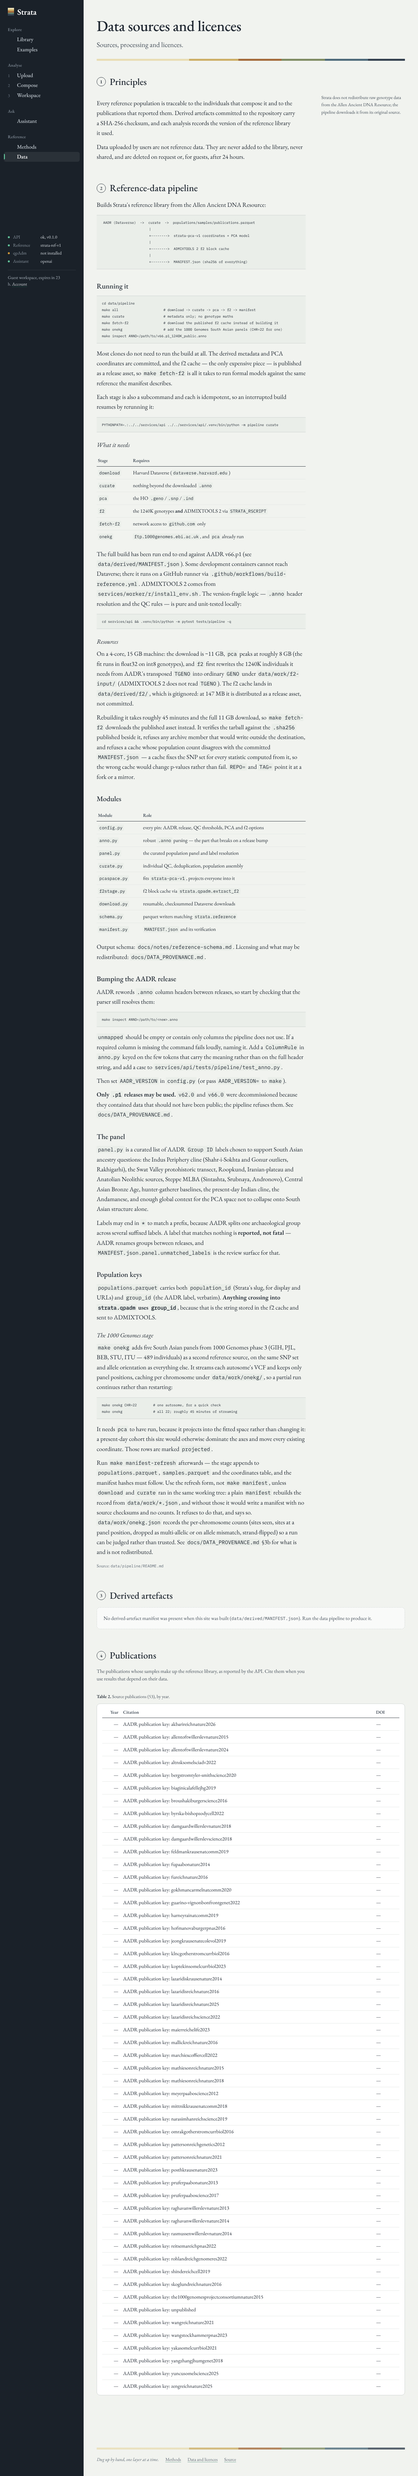
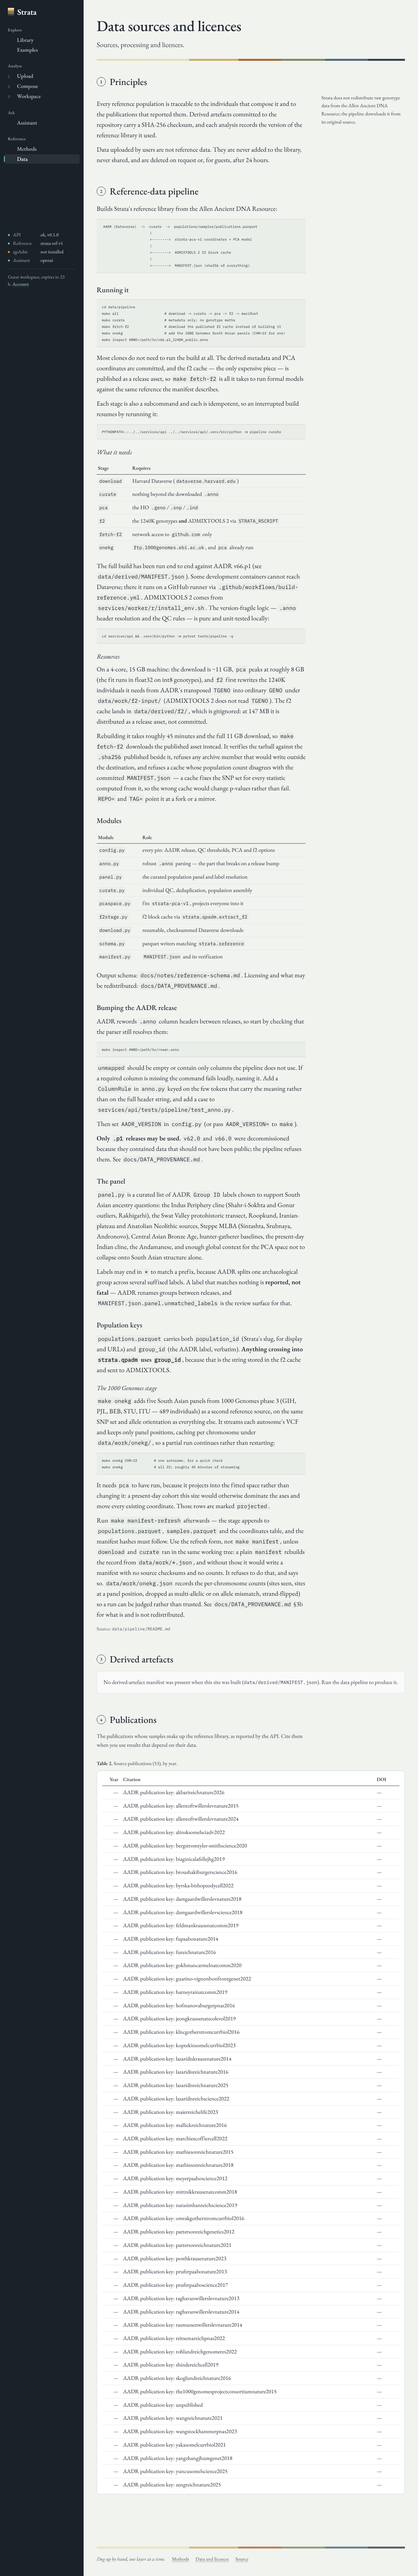
web: plain Strata title and easier-to-read text
The landing headline goes back to "Strata" with the italic subtitle
"a research instrument for population genetics", in place of the
word-by-word "Ancient DNA, read layer by layer" animation.

Body text is easier to read: larger base, small and caption sizes,
darker secondary greys, a little more line height, and no forced
antialiasing (which thinned Garamond on macOS). The rail's labels
and readouts get the same contrast bump.

Claude-Session: https://claude.ai/code/session_01HEuHS4owTqCYiz6PtRUaCN

diff --git a/apps/web/src/components/SiteHeader.tsx b/apps/web/src/components/SiteHeader.tsx
@@ -88,7 +88,7 @@ function Readout({ label, value, state }: { label: string; value: string; state:
   return (
     <div className="grid grid-cols-[0.5rem_4.75rem_1fr] items-baseline gap-x-2">
       <span className={`inline-block size-1.5 -translate-y-px rounded-full ${dot}`} aria-hidden />
-      <dt className="text-[#8d98a3]">{label}</dt>
+      <dt className="text-[#a7b1ba]">{label}</dt>
       <dd className="num truncate text-[#d5dbe0]" title={value}>
         {value}
       </dd>
@@ -101,7 +101,7 @@ function Status() {
   const caps = health?.capabilities;
   const wait = !health;
   return (
-    <dl className="space-y-1 text-[0.86rem] leading-[1.5]" aria-label="Server status">
+    <dl className="space-y-1 text-[0.92rem] leading-[1.5]" aria-label="Server status">
       <Readout label="API" value={health ? `${health.status}, v${health.version}` : "not connected"} state={wait ? "wait" : health.status === "ok" ? "ok" : "off"} />
       <Readout label="Reference" value={caps?.reference_version ?? "not built"} state={wait ? "wait" : caps?.reference_loaded ? "ok" : "off"} />
       <Readout label="qpAdm" value={caps ? (caps.qpadm ? "available" : "not installed") : "—"} state={wait ? "wait" : caps?.qpadm ? "ok" : "off"} />
@@ -119,7 +119,7 @@ function Nav({ path, onNavigate }: { path: string; onNavigate?: () => void }) {
     <nav aria-label="Primary" className="space-y-6">
       {GROUPS.map((g) => (
         <div key={g.title}>
-          <p className="mb-1.5 px-3 text-[0.82rem] font-semibold tracking-[0.02em] text-[#7f8a95]">{g.title}</p>
+          <p className="mb-1.5 px-3 text-[0.82rem] font-semibold tracking-[0.02em] text-[#9ca7b1]">{g.title}</p>
           <ul className="space-y-px">
             {g.items.map((n) => {
               const active = isActive(path, n.href);
@@ -136,7 +136,7 @@ function Nav({ path, onNavigate }: { path: string; onNavigate?: () => void }) {
                     {active ? (
                       <span className="pop absolute top-1.5 bottom-1.5 left-0 w-[3px] origin-center rounded-r bg-[#62c39a]" aria-hidden />
                     ) : null}
-                    <span className={`num text-[0.82rem] ${active ? "text-[#62c39a]" : "text-[#6f7a86]"}`}>
+                    <span className={`num text-[0.82rem] ${active ? "text-[#62c39a]" : "text-[#8994a0]"}`}>
                       {n.step ?? ""}
                     </span>
                     <span className="transition-transform duration-150 group-hover:translate-x-0.5">
@@ -212,7 +212,7 @@ export function SiteHeader() {
         <Nav path={path} onNavigate={() => setOpen(false)} />
         <div className="mt-auto space-y-4 px-3 pt-10">
           <Status />
-          <p className="border-t border-white/10 pt-3 text-[0.86rem] leading-[1.5] text-[#a9b3bc] [&_a]:text-[#d5dbe0]">
+          <p className="border-t border-white/10 pt-3 text-[0.92rem] leading-[1.5] text-[#a9b3bc] [&_a]:text-[#d5dbe0]">
             <SessionLine />
           </p>
         </div>

diff --git a/apps/web/src/app/page.tsx b/apps/web/src/app/page.tsx
@@ -1,7 +1,7 @@
 "use client";
 
 import Link from "next/link";
-import { Fragment, useMemo } from "react";
+import { useMemo } from "react";
 import { api } from "@/lib/api";
 import { useResource } from "@/lib/useResource";
 import { analysisLabel, int } from "@/lib/format";
@@ -199,17 +199,14 @@ export default function Home() {
     <article>
       <header className="mb-20 grid gap-12 lg:grid-cols-[minmax(0,1fr)_minmax(20rem,26rem)] lg:gap-14">
         <div className="flex flex-col">
-          <h1 className="display text-[2.9rem] sm:text-[3.6rem] xl:text-display">
-            {["Ancient", "DNA,", "read", "layer", "by", "layer."].map((w, i) => (
-              <Fragment key={i}>
-                <span className="settle" style={{ animationDelay: `${120 + i * 90}ms` }}>
-                  {w}
-                </span>{" "}
-              </Fragment>
-            ))}
-          </h1>
-          <p className="serif measure mt-7 text-[1.4rem] leading-[1.55] text-ink-2">
-            Compare your DNA with thousands of ancient people, then test which ancestry stories the data really supports.
+          <h1 className="display text-[3.6rem] leading-none sm:text-[4.6rem] xl:text-[5.4rem]">Strata</h1>
+          <p className="serif mt-3 text-[1.55rem] leading-snug text-ink-2 italic sm:text-[1.8rem]">
+            a research instrument for population genetics
+          </p>
+          <div className="stratum-rule stratum-draw mt-7 w-24" aria-hidden />
+          <p className="measure mt-7 text-[1.3rem] leading-[1.6] text-ink-2">
+            Place a genome among ancient and present-day reference populations, then test which ancestry models the
+            data supports.
           </p>
           <div className="mt-8 flex flex-wrap items-center gap-3">
             <Link href="/upload/" className="btn">

diff --git a/apps/web/src/app/globals.css b/apps/web/src/app/globals.css
@@ -18,8 +18,8 @@
   --color-paper: #f1f3ef; /* field stone: the page */
   --color-panel: #ffffff; /* working surfaces */
   --color-ink: #1e2630; /* slate */
-  --color-ink-2: #444e59;
-  --color-ink-3: #5f6974; /* 5.2:1 on stone, 5.6:1 on white */
+  --color-ink-2: #353e48;
+  --color-ink-3: #4f5963; /* 6.6:1 on stone, 7.2:1 on white */
   --color-rule: #ccd2d0;
   --color-rule-soft: #e3e7e4;
   --color-wash: #eaeee9;
@@ -39,9 +39,9 @@
   --color-umber: #8a5418;
   --color-alert: #a32a1f;
 
-  --text-caption: 0.875rem;
-  --text-small: 0.98rem;
-  --text-body: 1.1875rem;
+  --text-caption: 0.95rem;
+  --text-small: 1.06rem;
+  --text-body: 1.25rem;
   --text-h3: 1.375rem;
   --text-h2: 1.8125rem;
   --text-h1: 2.875rem;
@@ -61,13 +61,13 @@
     font-kerning: normal;
     font-variant-ligatures: common-ligatures;
     text-rendering: optimizeLegibility;
-    -webkit-font-smoothing: antialiased;
   }
   body {
     background: var(--color-paper);
     font-size: var(--text-body);
-    line-height: 1.5;
+    line-height: 1.6;
     min-height: 100vh;
+    letter-spacing: 0.005em;
   }
   h1,
   h2,
